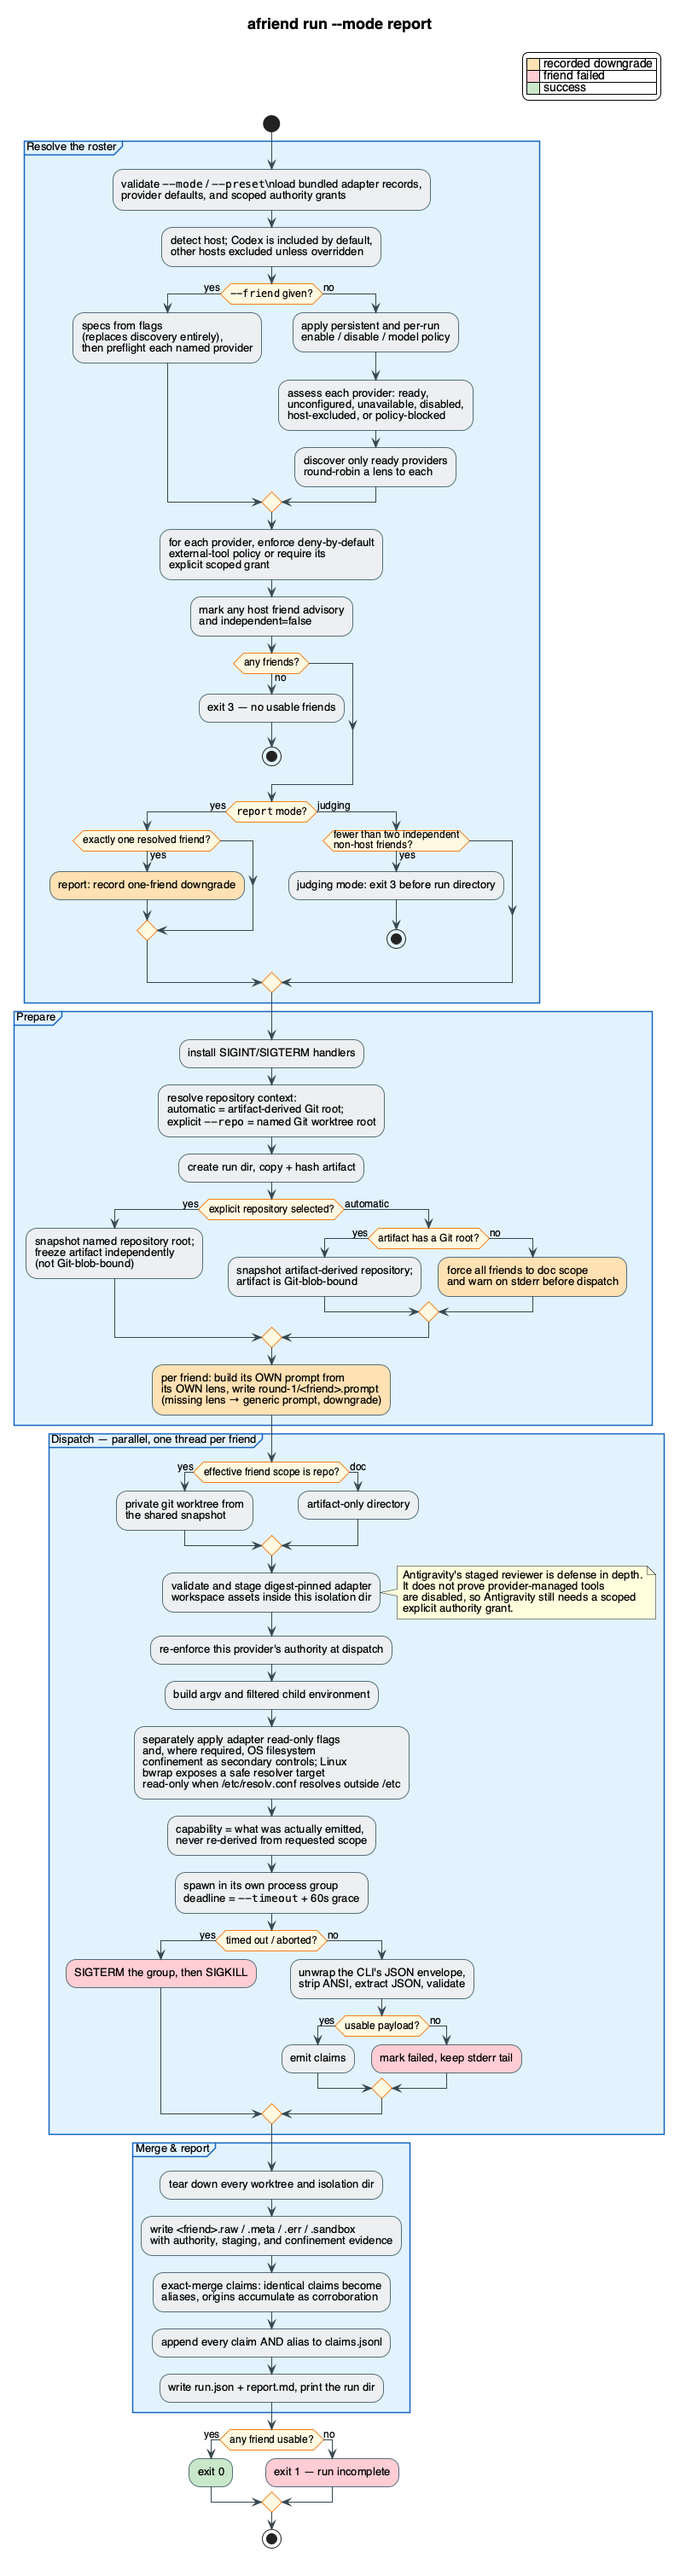
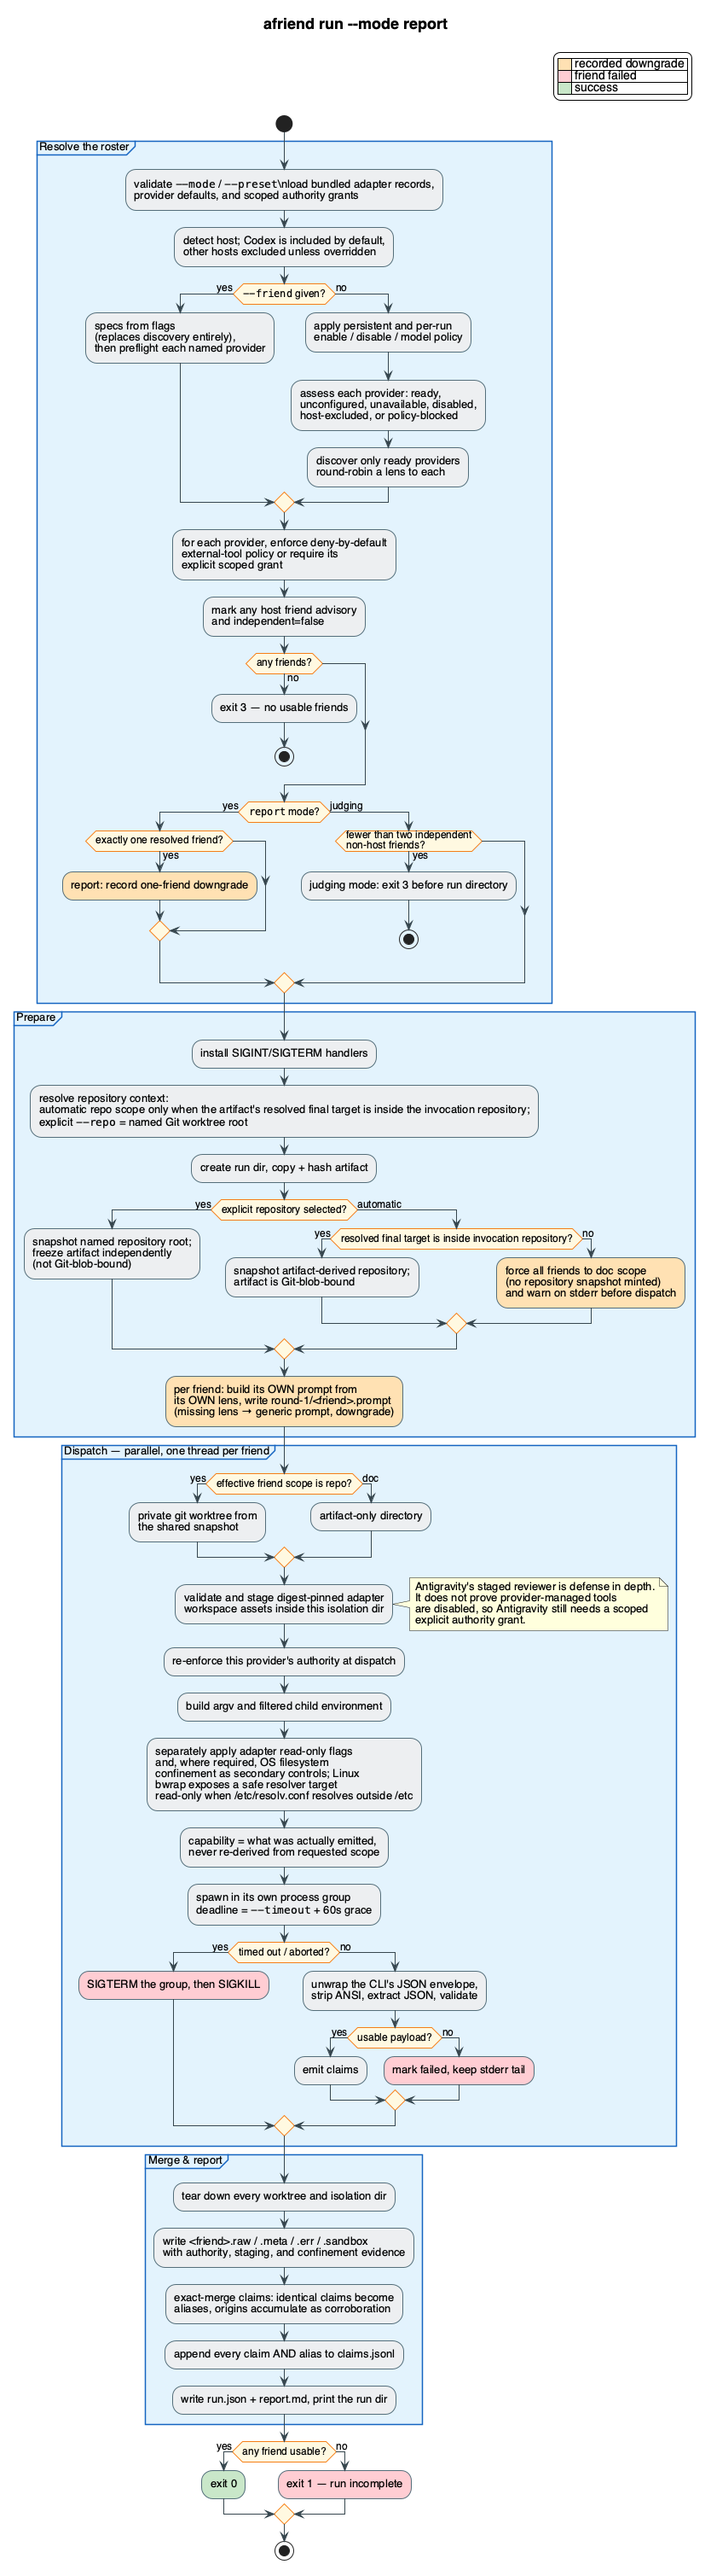
docs: clarify automatic repository scope

Changed region(s): [[0.0, 0.0, 0.9937, 0.9903], [0.5721, 0.0, 0.6324, 0.0309]]

diff --git a/README.md b/README.md
@@ -10,7 +10,7 @@
 [![Python](https://img.shields.io/badge/python-3.11%2B-blue)](pyproject.toml)
 [![Dependencies](https://img.shields.io/badge/runtime%20deps-none-brightgreen)](pyproject.toml)
 [![License](https://img.shields.io/badge/license-MIT-green)](LICENSE)
-[![Tests](https://img.shields.io/badge/tests-2163-brightgreen)](tests/)
+[![Tests](https://img.shields.io/badge/tests-2178-brightgreen)](tests/)
 
 It automates a workflow you may already do by hand: run a review, paste the
 findings into a different model, ask whether they hold up, carry the argument
@@ -269,14 +269,17 @@ afriend run docs/plan.md --mode report
 afriend run /tmp/reviews/plan.md --repo "$PWD" --mode report
 ```
 
-The first form selects scope automatically from the artifact location: a path
-outside a Git repository produces a visible doc-scope warning on stderr before
-friends start, while a path inside one receives a repository snapshot. The
-second form selects the named repository explicitly; `--repo` must name that
-repository's Git worktree root. It lets an outside or ignored artifact be
-independently frozen while the named repository is snapshotted for code
-context. It does not grant new provider, external-tool, or write authority.
-Normal untracked, non-ignored files are included in an automatic snapshot.
+The first form selects scope automatically only when the artifact's resolved
+final target is inside the invocation repository: it receives a repository
+snapshot. An in-repository symlink whose target resolves outside that
+repository is doc scope only, and no repository snapshot is minted; a path
+outside a Git repository likewise produces a visible doc-scope warning on
+stderr before friends start. The second form selects the named repository
+explicitly; `--repo` must name that repository's Git worktree root. It is the
+deliberate route for independently freezing an external artifact together
+with selected repository code. It does not grant new provider, external-tool,
+or write authority. Normal untracked, non-ignored files are included in an
+automatic snapshot.
 
 Gitignored artifacts are intentionally excluded from automatic Git-blob
 binding and fail rather than falling back to a stale `HEAD` version. Use the

diff --git a/plugins/adversarial-friends/skills/afriend/SKILL.md b/plugins/adversarial-friends/skills/afriend/SKILL.md
@@ -123,16 +123,18 @@ afriend run docs/plan.md --mode report
 afriend run /tmp/reviews/plan.md --repo "$PWD" --mode report
 ```
 
-The first selects scope automatically from the artifact location: an artifact
-inside a Git repository gets a repository snapshot, while one outside gets doc
-scope only with a warning before friends start. The second selects the named
-repository explicitly; `--repo` must be that repository's Git worktree root.
-It independently freezes an outside or ignored artifact while snapshotting the
-named repository for code inspection. `--repo` does not grant new provider,
-external-tool, or write authority. Normal untracked, non-ignored files are
-included in an automatic snapshot. Gitignored artifacts are deliberately
-excluded from automatic Git-blob binding; use the explicit form when they need
-the named repository's code context.
+The first selects scope automatically only when the artifact's resolved final
+target is inside the invocation repository: it gets a repository snapshot. An
+in-repository symlink whose target resolves outside that repository is doc
+scope only, and no repository snapshot is minted; one outside a Git repository
+gets doc scope only with a warning before friends start. The second selects the
+named repository explicitly; `--repo` must be that repository's Git worktree
+root. It is the deliberate route for independently freezing an external
+artifact together with selected repository code. `--repo` does not grant new
+provider, external-tool, or write authority. Normal untracked, non-ignored
+files are included in an automatic snapshot. Gitignored artifacts are
+deliberately excluded from automatic Git-blob binding; use the explicit form
+when they need the named repository's code context.
 
 Every mode dispatches the artifact to every discovered friend in parallel and
 writes a run directory (under `${XDG_STATE_HOME:-~/.local/state}/adversarial-friends/runs/`,

diff --git a/src/adversarial_friends/assets/entrypoints/afriend/SKILL.md b/src/adversarial_friends/assets/entrypoints/afriend/SKILL.md
@@ -123,16 +123,18 @@ afriend run docs/plan.md --mode report
 afriend run /tmp/reviews/plan.md --repo "$PWD" --mode report
 ```
 
-The first selects scope automatically from the artifact location: an artifact
-inside a Git repository gets a repository snapshot, while one outside gets doc
-scope only with a warning before friends start. The second selects the named
-repository explicitly; `--repo` must be that repository's Git worktree root.
-It independently freezes an outside or ignored artifact while snapshotting the
-named repository for code inspection. `--repo` does not grant new provider,
-external-tool, or write authority. Normal untracked, non-ignored files are
-included in an automatic snapshot. Gitignored artifacts are deliberately
-excluded from automatic Git-blob binding; use the explicit form when they need
-the named repository's code context.
+The first selects scope automatically only when the artifact's resolved final
+target is inside the invocation repository: it gets a repository snapshot. An
+in-repository symlink whose target resolves outside that repository is doc
+scope only, and no repository snapshot is minted; one outside a Git repository
+gets doc scope only with a warning before friends start. The second selects the
+named repository explicitly; `--repo` must be that repository's Git worktree
+root. It is the deliberate route for independently freezing an external
+artifact together with selected repository code. `--repo` does not grant new
+provider, external-tool, or write authority. Normal untracked, non-ignored
+files are included in an automatic snapshot. Gitignored artifacts are
+deliberately excluded from automatic Git-blob binding; use the explicit form
+when they need the named repository's code context.
 
 Every mode dispatches the artifact to every discovered friend in parallel and
 writes a run directory (under `${XDG_STATE_HOME:-~/.local/state}/adversarial-friends/runs/`,

diff --git a/plugins/adversarial-friends/skills/afriend/references/troubleshooting.md b/plugins/adversarial-friends/skills/afriend/references/troubleshooting.md
@@ -121,14 +121,16 @@ afriend run docs/plan.md --mode report
 afriend run /tmp/reviews/plan.md --repo "$PWD" --mode report
 ```
 
-The first form selects scope automatically from the artifact location. An
-artifact inside a Git repository gets a repository snapshot; one outside gets
-doc scope only, so friends can read its text but not repository code. The
-second form explicitly selects code context: `--repo` must name the target
-repository's Git worktree root. It independently freezes an outside or ignored
-artifact while snapshotting the named repository. `--repo` does not grant new
-provider, external-tool, or write authority. A resume uses the saved repository
-scope and rejects `--repo`.
+The first form selects scope automatically only when the artifact's resolved
+final target is inside the invocation repository: it gets a repository
+snapshot. An in-repository symlink whose target resolves outside that
+repository is doc scope only, and no repository snapshot is minted; one outside
+a Git repository gets doc scope only, so friends can read its text but not
+repository code. The second form explicitly selects code context: `--repo`
+must name the target repository's Git worktree root. It is the deliberate route
+for independently freezing an external artifact together with selected
+repository code. `--repo` does not grant new provider, external-tool, or write
+authority. A resume uses the saved repository scope and rejects `--repo`.
 
 Normal untracked, non-ignored files are included in that snapshot. Gitignored
 files are deliberately excluded from automatic Git-blob binding; when the

diff --git a/src/adversarial_friends/assets/entrypoints/afriend/references/troubleshooting.md b/src/adversarial_friends/assets/entrypoints/afriend/references/troubleshooting.md
@@ -121,14 +121,16 @@ afriend run docs/plan.md --mode report
 afriend run /tmp/reviews/plan.md --repo "$PWD" --mode report
 ```
 
-The first form selects scope automatically from the artifact location. An
-artifact inside a Git repository gets a repository snapshot; one outside gets
-doc scope only, so friends can read its text but not repository code. The
-second form explicitly selects code context: `--repo` must name the target
-repository's Git worktree root. It independently freezes an outside or ignored
-artifact while snapshotting the named repository. `--repo` does not grant new
-provider, external-tool, or write authority. A resume uses the saved repository
-scope and rejects `--repo`.
+The first form selects scope automatically only when the artifact's resolved
+final target is inside the invocation repository: it gets a repository
+snapshot. An in-repository symlink whose target resolves outside that
+repository is doc scope only, and no repository snapshot is minted; one outside
+a Git repository gets doc scope only, so friends can read its text but not
+repository code. The second form explicitly selects code context: `--repo`
+must name the target repository's Git worktree root. It is the deliberate route
+for independently freezing an external artifact together with selected
+repository code. `--repo` does not grant new provider, external-tool, or write
+authority. A resume uses the saved repository scope and rejects `--repo`.
 
 Normal untracked, non-ignored files are included in that snapshot. Gitignored
 files are deliberately excluded from automatic Git-blob binding; when the
